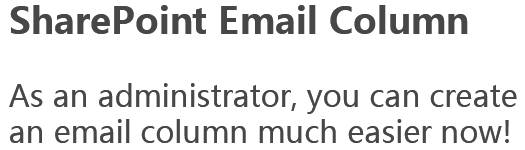
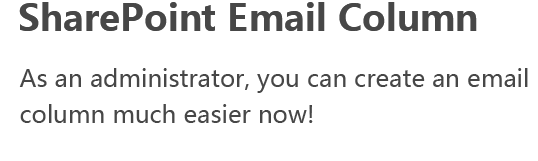
keep working on integration

Changed region(s): [[0.0, 0.4267, 1.0, 0.7733], [0.0, 0.0, 0.9143, 0.24], [0.0, 0.8, 0.9752, 0.96]]

diff --git a/index.html b/index.html
@@ -21,9 +21,9 @@ pageType: index_page
                 <div class="carousel-caption">
 
                     <div class="row">
-                        <div class="col-lg-6 col-md-6 col-xs-12 col-sm-12">
+                        <div class="col-lg-8 col-md-8 col-xs-12 col-sm-12">
                             <div class="banner01_left">
-                                <div class="img_tips">
+                                <div class="img_tips" style="margin-left: -15px;">
                                     <img src="assets/images/banner_tips.png" class="img-responsive" />
                                 </div>
                                 <p>
@@ -35,7 +35,7 @@ pageType: index_page
                             </div>
                         </div>
                         <div class="col-lg-4 col-md-4  xs_none">
-                            <div class="banner01_right">
+                            <div class="banner01_right"  style="margin-top: -60px;position:relative">
                                 <img src="assets/images/banner_01pic01.png" class="img-responsive" />
                             </div>
                         </div>
@@ -61,7 +61,7 @@ pageType: index_page
                               </p>
                           </div>
                       </div>
-                      <div class="col-lg-4 col-md-4  xs_none">
+                      <div class="col-lg-6 col-md-6  xs_none">
                           <div class="banner01_right" style="margin-top: -60px;position:relative">
                               <img src="assets/images/listfilter/logo.png" style="width:724px;max-width: inherit;" class="img-responsive" />
                           </div>

diff --git a/sharepoint-list-view-filter.html b/sharepoint-list-view-filter.html
@@ -17,31 +17,6 @@ pageType: details_page
           <!-- Wrapper for slides -->
           <div class="carousel-inner" role="listbox">
               <div class="item active">
-                <!-- <img src="assets/images/listfilter/bannerbackground.png" />
-                <div class="carousel-caption">
-
-                    <div class="row">
-                        <div class="col-lg-6 col-md-6 col-xs-12 col-sm-12">
-                            <div class="banner01_left">
-                                <div class="img_tips">
-                                    <img src="assets/images/listfilter/text.png" class="img-responsive" />
-
-                                </div>
-                                <p>
-                                    <button class="btn btn_free ">
-                                        <img src="assets/images/icon_b01.png" />Free Trial</button>
-                                    <button class="btn btn_buy ">
-                                        <img src="assets/images/icon_b02.png" />Buy Now</button>
-                                </p>
-                            </div>
-                        </div>
-                        <div class="col-lg-4 col-md-4  xs_none">
-                            <div class="banner01_right">
-                                <img src="assets/images/listfilter/logo.png" class="img-responsive" />
-                            </div>
-                        </div>
-                    </div>
-                </div> -->
                 <img src="assets/images/listfilter/bannerbackground.png" />
                 <div class="carousel-caption">
 

diff --git a/_layouts/default.html b/_layouts/default.html
@@ -18,27 +18,33 @@
 <script type="text/javascript" src="http://code.jquery.com/jquery-1.12.0.min.js"></script>
 <script type="text/javascript" src="https://maxcdn.bootstrapcdn.com/bootstrap/3.3.6/js/bootstrap.min.js"></script>
 <script type="text/javascript">
+
+function resetTopBar() {
+  if ($(window).scrollTop() > 100 ) {
+    if($('.header').is(".large")){
+      $('.header').removeClass('large').addClass('small');
+      console.log('change to small');
+    }
+  } else if( $('.header').is(".small")){
+      $('.header').removeClass('small').addClass('large');
+      console.log('change to large');
+  }
+}
       $(function () {
-          $(window).on('scroll', function () {
-              if ($(window).scrollTop() > 100 ) {
-                if($('.header').is(".large")){
-                  $('.header').removeClass('large').addClass('small');
-                  console.log('change to small');
-                }
-              } else if( $('.header').is(".small")){
-                  $('.header').removeClass('small').addClass('large');
-                  console.log('change to large');
-              }
-          });
+          $(window).on('scroll', resetTopBar);
       });
   </script>
 
 <script type="text/javascript">
    $(function(){
+     resetTopBar();
+     
      var pageMenu = '{{page.menuItem}}';
      if(pageMenu){
-        $("#mainnav li[menuItem='"+pageMenu+"']").addClass("current-menu-item current_page_item");
+        $(".navbar li[menuItem='"+pageMenu+"']").addClass("active");
      }
+
+
    });
 
    (function (i, s, o, g, r, a, m) {

diff --git a/sharepoint-email-field.html b/sharepoint-email-field.html
@@ -21,9 +21,9 @@ pageType: details_page
                   <div class="carousel-caption">
 
                       <div class="row">
-                          <div class="col-lg-6 col-md-6 col-xs-12 col-sm-12">
+                          <div class="col-lg-8 col-md-8 col-xs-12 col-sm-12">
                               <div class="banner01_left">
-                                  <div class="img_tips">
+                                  <div class="img_tips" style="margin-left: -15px;">
                                     <img src="assets/images/banner_tips.png" class="img-responsive" />
                                   </div>
                                   <p>
@@ -35,7 +35,7 @@ pageType: details_page
                               </div>
                           </div>
                           <div class="col-lg-4 col-md-4  xs_none">
-                              <div class="banner01_right">
+                              <div class="banner01_right"  style="margin-top: -60px;position:relative">
                                   <img src="assets/images/banner_01pic01.png" class="img-responsive" />
                               </div>
                           </div>

diff --git a/_includes/header.html b/_includes/header.html
@@ -16,11 +16,11 @@
 
               <div class="collapse navbar-collapse" id="bs-example-navbar-collapse-1">
                   <ul class="nav navbar-nav navbar-right">
-                      <li class="active"><a href="sharepoint-email-field.html">EMAIL  FIELD <span class="sr-only">(current)</span></a></li>
-                      <li><a href="sharepoint-list-view-filter.html">LIST  VIEW  FILTER</a></li>
-                      <li><a href="#">
+                      <li  menuItem="emailField" ><a href="sharepoint-email-field.html">EMAIL  FIELD <span class="sr-only">(current)</span></a></li>
+                      <li  menuItem="listViewFilter"><a href="sharepoint-list-view-filter.html">LIST  VIEW  FILTER</a></li>
+                      <!-- <li><a href="mailto:sales@bluepowersolutions.com">
                           <img src="assets/images/icon_top_message.png" />
-                      </a></li>
+                      </a></li> -->
                   </ul>
 
 

diff --git a/_includes/head.html b/_includes/head.html
@@ -8,7 +8,9 @@
   <title>{% if page.title %}{{ page.title }}{% else %}{{ site.title }}{% endif %}</title>
   <meta name="description" content="{% if page.excerpt %}{{ page.excerpt | strip_html | strip_newlines | truncate: 160 }}{% else %}{{ site.description }}{% endif %}">
  <meta http-equiv="Content-Type" content="text/html; charset=UTF-8">
- <link rel="icon" href="assets/images/favicon.ico" type="image/x-icon" />
+ <link rel="icon" href="/favicon.ico" type="image/x-icon" />
+ <link rel="shortcut icon" href="/favicon.ico"/>
+<link rel="bookmark" href="/favicon.ico"/>
  <link href="http://maxcdn.bootstrapcdn.com/font-awesome/4.2.0/css/font-awesome.min.css" rel="stylesheet" />
   <link href="css/bootstrap.css" rel="stylesheet" />
  <link href="css/cover.css" rel="stylesheet" />

diff --git a/_includes/footer.html b/_includes/footer.html
@@ -47,16 +47,6 @@
                             </dl>
                         </div>
                     </div>
-                    <div class="col-xs-12 col-md-2 col-lg-2">
-                        <div class="footer_one_02">
-                            <dl>
-                                <dt>EMAIL  FIELD</dt>
-                                <dd><a href="">Text FieldEMAIL  </a></dd>
-                                <dd><a href="">Numeric Field</a></dd>
-                                <dd><a href="">Date Field</a></dd>
-                            </dl>
-                        </div>
-                    </div>
                 </div>
             </div>
         </div>
